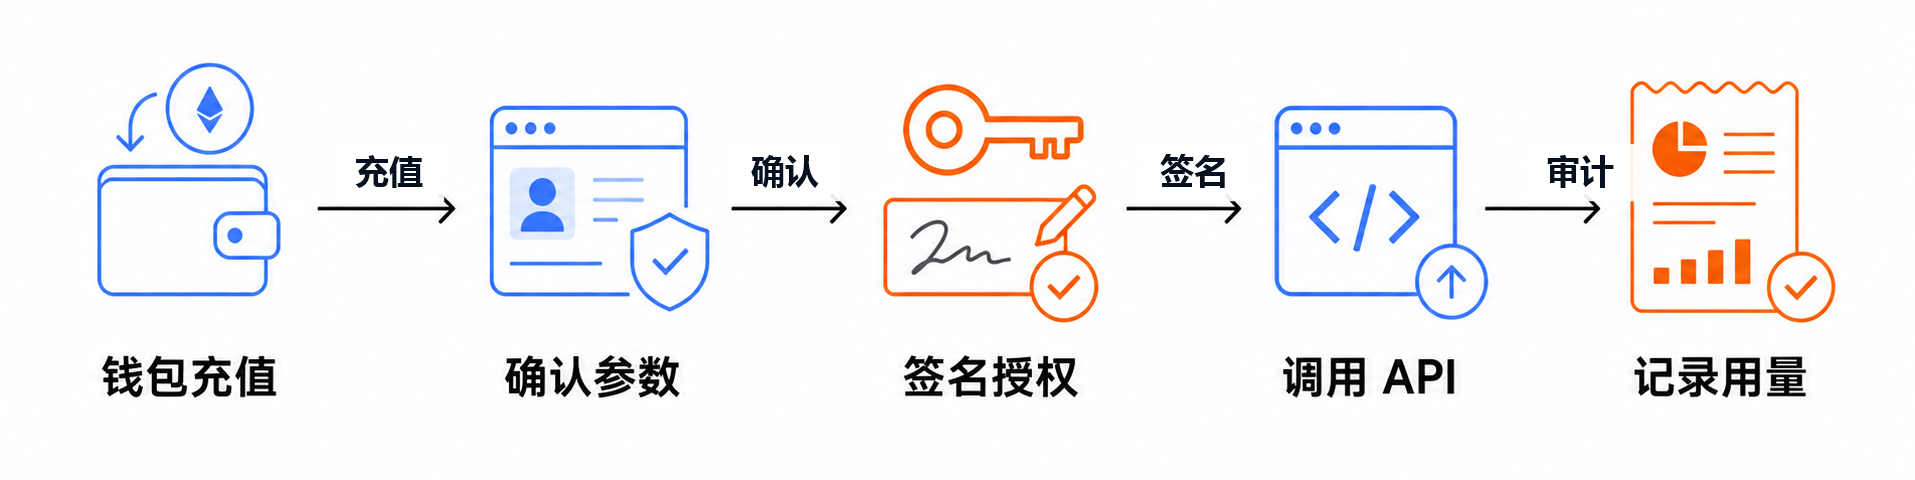
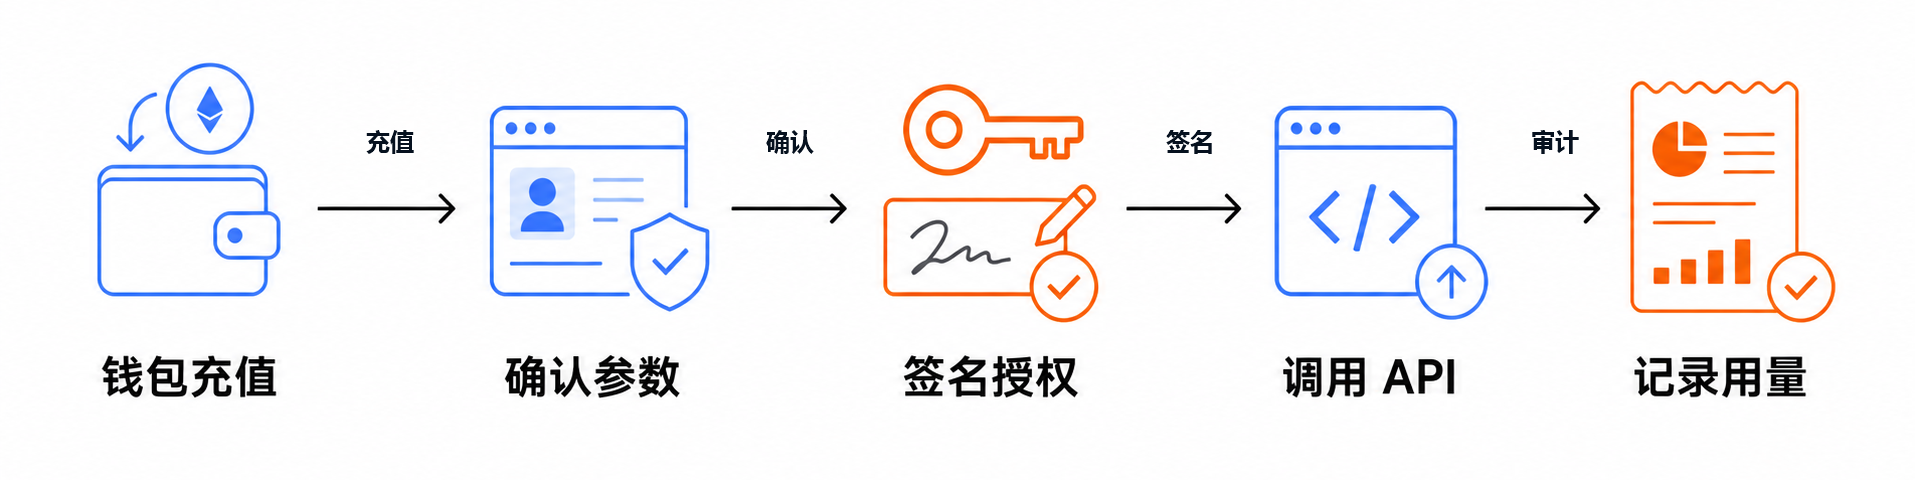
Update guide endpoints and workflow labels

diff --git a/bitgo-product-guide-optimized-v2.html b/bitgo-product-guide-optimized-v2.html
@@ -784,7 +784,7 @@
                 </button>
                 <p class="copy-status" id="copy-status" aria-live="polite"></p>
               </div>
-              <p class="lead copy-text-block" id="agent-intro-text">bitgo 让你的产品更快试错、更快上线。试错是 agent 的超能力，而 agent 需要一个紧凑的“编写 → 部署 → 验证”循环。后台 AI 会话无需人工干预，正在逐渐成为常态；agent 也在形成自己的代码部署方式，以便真正做到开箱即用，不再依赖额外步骤或临时凭证。bitgo 正是 agent 的好帮手：它是面向 AI agent 的虚拟资产账户与支付授权层，让 agent 可以安全、丝滑、无感知地消费模型、云主机和其他数字服务。<span class="agent-doc-link">请agent仔细阅读产品文档：<a href="https://bitgo.enigmhaven.com/bitgo-product-guide-optimized-en-v2.html" target="_blank" rel="noopener">https://bitgo.enigmhaven.com/bitgo-product-guide-optimized-en-v2.html</a>。</span></p>
+              <p class="lead copy-text-block" id="agent-intro-text">bitgo 让你的产品更快试错、更快上线。试错是 agent 的超能力，而 agent 需要一个紧凑的“编写 → 部署 → 验证”循环。后台 AI 会话无需人工干预，正在逐渐成为常态；agent 也在形成自己的代码部署方式，以便真正做到开箱即用，不再依赖额外步骤或临时凭证。bitgo 正是 agent 的好帮手：它是面向 AI agent 的虚拟资产账户与支付授权层，让 agent 可以安全、丝滑、无感知地消费模型、云主机和其他数字服务。<span class="agent-doc-link">请agent仔细阅读产品文档：<a href="https://bitgo.enigmhaven.com/bitgo-product-guide-optimized-v2.html" target="_blank" rel="noopener">https://bitgo.enigmhaven.com/bitgo-product-guide-optimized-v2.html</a>。</span></p>
             </div>
             <p class="hero-note">提示：把这段介绍复制给你的 agent，让它认识这位新朋友。</p>
           </div>
@@ -807,7 +807,7 @@
         <h2>使用流程</h2>
         <p>bitgo 的主流程可以拆成五步。人负责确认资金、链和敏感授权信息，agent 或软件负责把确认后的信息转化为可验证的推理 API 请求。</p>
         <figure class="workflow-figure">
-          <img src="assets/bitgo-workflow-diagram-v2.png?v=arrow-labels" alt="bitgo 使用流程图：钱包充值、确认参数、签名授权、调用 API、记录用量">
+          <img src="assets/bitgo-workflow-diagram-v2.png?v=arrow-labels-v2" alt="bitgo 使用流程图：钱包充值、确认参数、签名授权、调用 API、记录用量">
         </figure>
         <ol class="step-list">
           <li>自持私钥 Web3 钱包向 bitgo 官方地址充值</li>
@@ -898,7 +898,7 @@
         <table>
           <thead><tr><th>项目</th><th>值</th><th>说明</th></tr></thead>
           <tbody>
-            <tr><td><code>endpoint</code></td><td><code>https://api-token-enigmhaven.expvent.com.cn:1111/v1/messages</code></td><td>推理 API 请求地址</td></tr>
+            <tr><td><code>endpoint</code></td><td><code>https://api-bitgo.enigmhaven.com/v1/messages</code></td><td>推理 API 请求地址</td></tr>
             <tr><td><code>method</code></td><td><code>POST</code></td><td>发送 JSON 请求体</td></tr>
             <tr><td><code>Content-Type</code></td><td><code>application/json</code></td><td>固定使用 JSON</td></tr>
             <tr><td><code>X-Params</code></td><td><code>BASE64_ENCODED_WALLET_PARAMS</code></td><td>钱包业务签名认证参数</td></tr>
@@ -1034,7 +1034,7 @@
         <h3>完整 BTC 请求样例</h3>
         <pre><code class="language-json">{
   &quot;method&quot;: &quot;POST&quot;,
-  &quot;url&quot;: &quot;https://api-token-enigmhaven.expvent.com.cn:1111/v1/messages&quot;,
+  &quot;url&quot;: &quot;https://api-bitgo.enigmhaven.com/v1/messages&quot;,
   &quot;headers&quot;: {
     &quot;Content-Type&quot;: &quot;application/json&quot;,
     &quot;X-Params&quot;: &quot;BASE64_ENCODED_WALLET_PARAMS&quot;,
@@ -1086,7 +1086,7 @@
   }
 }</code></pre>
         <h3>curl 连通性测试</h3>
-        <pre><code>curl -X POST &quot;https://api-token-enigmhaven.expvent.com.cn:1111/v1/messages&quot; \
+        <pre><code>curl -X POST &quot;https://api-bitgo.enigmhaven.com/v1/messages&quot; \
   -H &quot;Content-Type: application/json&quot; \
   -H &quot;X-Params: BASE64_ENCODED_WALLET_PARAMS&quot; \
   -H &quot;X-Nonce: RANDOM_NONCE&quot; \

diff --git a/bitgo-product-guide-optimized-en-v2.html b/bitgo-product-guide-optimized-en-v2.html
@@ -813,7 +813,7 @@
         <h2>Workflow</h2>
         <p>The bitgo flow has five steps. Humans confirm funds, chain, and sensitive authorization details; agents or software turn the confirmed information into a verifiable reasoning API request.</p>
         <figure class="workflow-figure">
-          <img src="assets/bitgo-workflow-diagram-en-v2.png?v=arrow-labels" alt="bitgo workflow diagram: wallet deposit, confirm params, sign authorization, call API, record usage">
+          <img src="assets/bitgo-workflow-diagram-en-v2.png?v=arrow-labels-v2" alt="bitgo workflow diagram: wallet deposit, confirm params, sign authorization, call API, record usage">
         </figure>
         <ol class="step-list">
           <li>Deposit from a self-custody Web3 wallet to the official bitgo address</li>
@@ -904,7 +904,7 @@
         <table>
           <thead><tr><th>Item</th><th>Value</th><th>Description</th></tr></thead>
           <tbody>
-            <tr><td><code>endpoint</code></td><td><code>https://api-token-enigmhaven.expvent.com.cn:1111/v1/messages</code></td><td>Reasoning API request URL</td></tr>
+            <tr><td><code>endpoint</code></td><td><code>https://api-bitgo.enigmhaven.com/v1/messages</code></td><td>Reasoning API request URL</td></tr>
             <tr><td><code>method</code></td><td><code>POST</code></td><td>Send a JSON request body</td></tr>
             <tr><td><code>Content-Type</code></td><td><code>application/json</code></td><td>Always use JSON</td></tr>
             <tr><td><code>X-Params</code></td><td><code>BASE64_ENCODED_WALLET_PARAMS</code></td><td>Wallet business-signature authentication parameter</td></tr>
@@ -1040,7 +1040,7 @@
         <h3>Full BTC request example</h3>
         <pre><code class="language-json">{
   &quot;method&quot;: &quot;POST&quot;,
-  &quot;url&quot;: &quot;https://api-token-enigmhaven.expvent.com.cn:1111/v1/messages&quot;,
+  &quot;url&quot;: &quot;https://api-bitgo.enigmhaven.com/v1/messages&quot;,
   &quot;headers&quot;: {
     &quot;Content-Type&quot;: &quot;application/json&quot;,
     &quot;X-Params&quot;: &quot;BASE64_ENCODED_WALLET_PARAMS&quot;,
@@ -1092,7 +1092,7 @@
   }
 }</code></pre>
         <h3>curl connectivity test</h3>
-        <pre><code>curl -X POST &quot;https://api-token-enigmhaven.expvent.com.cn:1111/v1/messages&quot;   -H &quot;Content-Type: application/json&quot;   -H &quot;X-Params: BASE64_ENCODED_WALLET_PARAMS&quot;   -H &quot;X-Nonce: RANDOM_NONCE&quot;   -H &quot;X-Signature: ECDSA_SIGNATURE_HEX&quot;   -H &quot;X-Public-Key: ECDSA_PUBLIC_KEY_HEX&quot;   --data-raw '{
+        <pre><code>curl -X POST &quot;https://api-bitgo.enigmhaven.com/v1/messages&quot;   -H &quot;Content-Type: application/json&quot;   -H &quot;X-Params: BASE64_ENCODED_WALLET_PARAMS&quot;   -H &quot;X-Nonce: RANDOM_NONCE&quot;   -H &quot;X-Signature: ECDSA_SIGNATURE_HEX&quot;   -H &quot;X-Public-Key: ECDSA_PUBLIC_KEY_HEX&quot;   --data-raw '{
     &quot;model&quot;: &quot;claude-4.6-opus&quot;,
     &quot;max_tokens&quot;: 1024,
     &quot;stream&quot;: false,